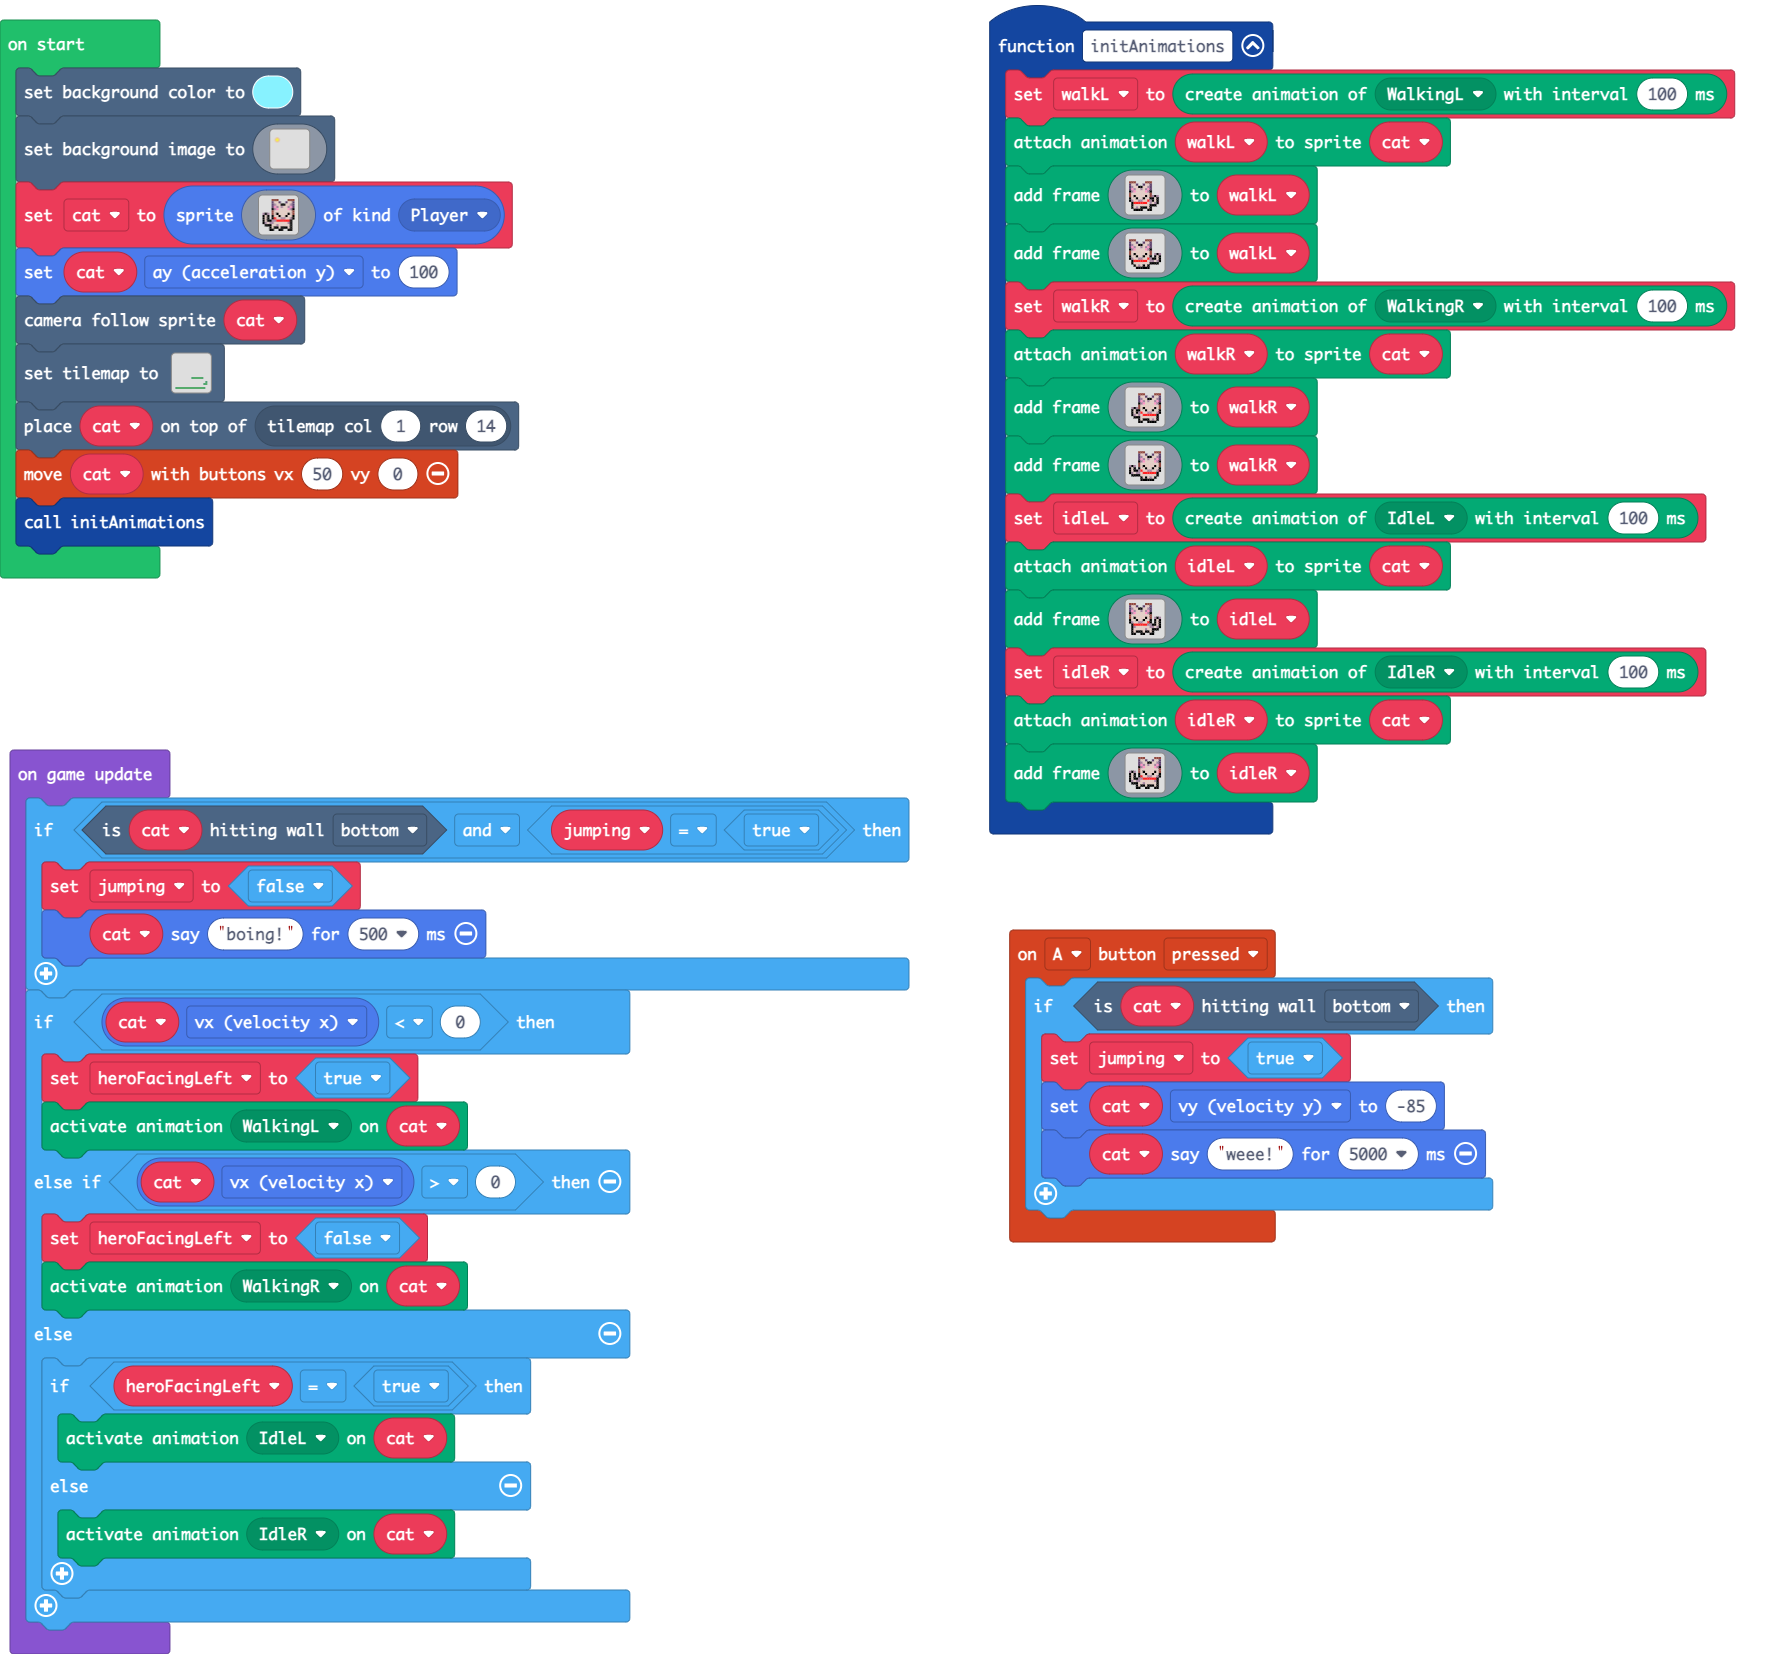
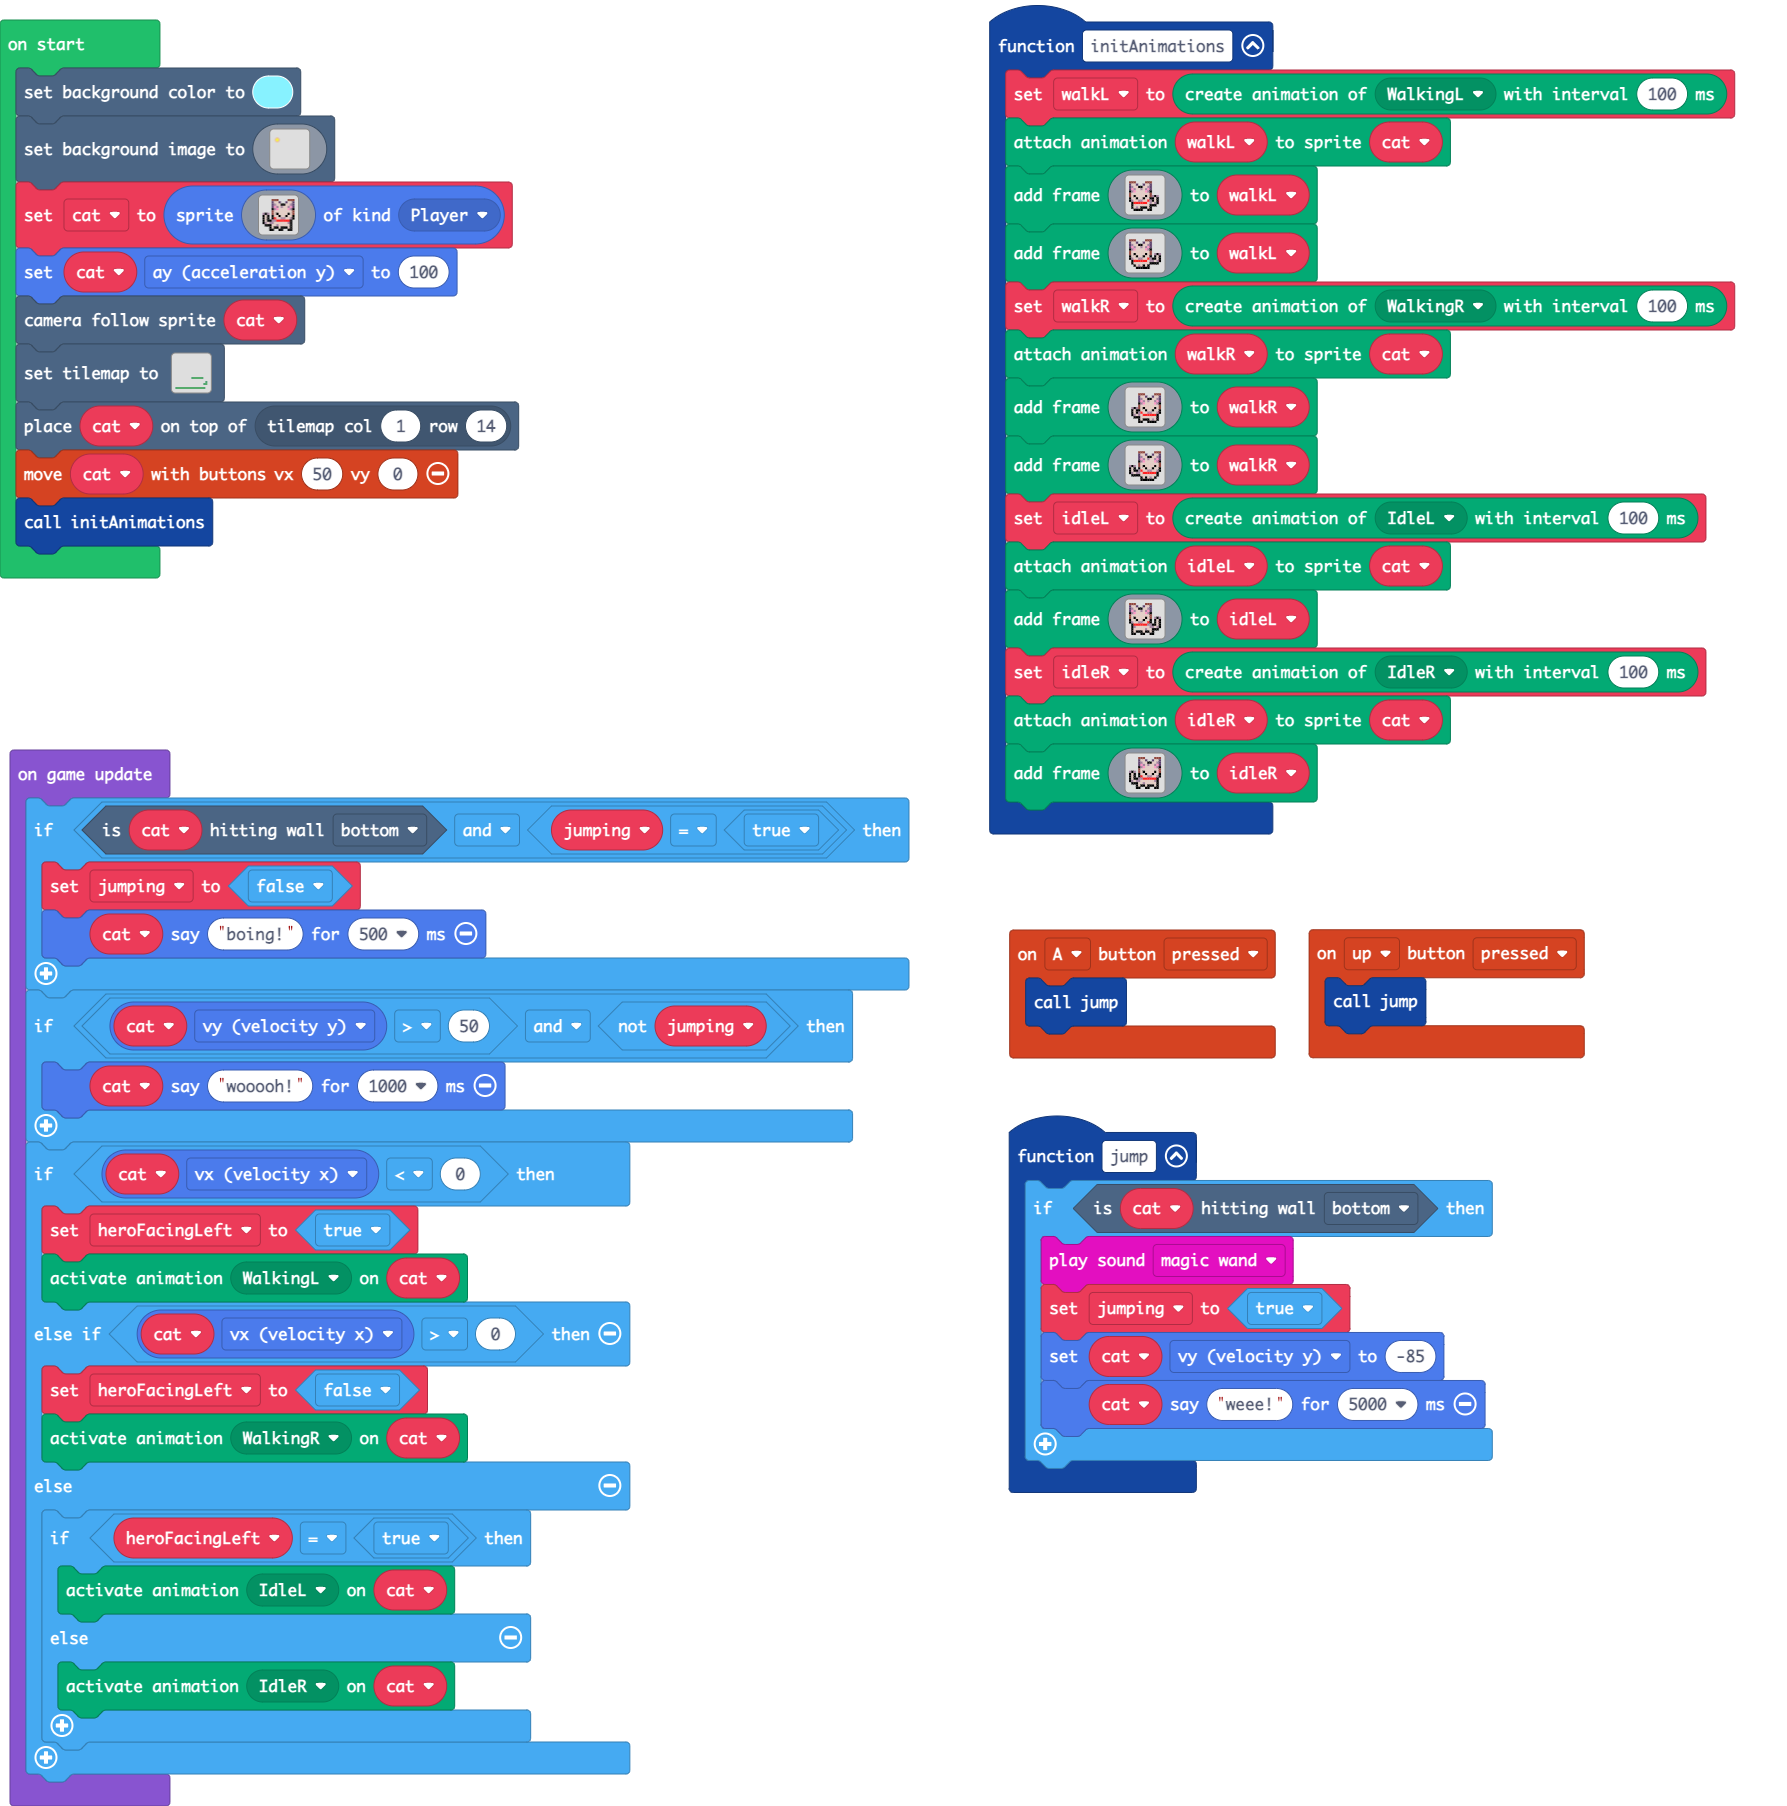
Update pxt.json, main.blocks, main.ts

diff --git a/main.ts b/main.ts
@@ -10,6 +10,9 @@ enum ActionKind {
 namespace SpriteKind {
     export const sky = SpriteKind.create()
 }
+controller.up.onEvent(ControllerButtonEvent.Pressed, function () {
+    jump()
+})
 function initAnimations () {
     walkL = animation.createAnimation(ActionKind.WalkingL, 100)
     animation.attachAnimation(cat, walkL)
@@ -117,12 +120,16 @@ function initAnimations () {
         `)
 }
 controller.A.onEvent(ControllerButtonEvent.Pressed, function () {
+    jump()
+})
+function jump () {
     if (cat.isHittingTile(CollisionDirection.Bottom)) {
+        music.magicWand.play()
         jumping = true
         cat.vy = -85
         cat.say("weee!", 5000)
     }
-})
+}
 let heroFacingLeft = false
 let jumping = false
 let idleR: animation.Animation = null
@@ -279,6 +286,9 @@ game.onUpdate(function () {
     if (cat.isHittingTile(CollisionDirection.Bottom) && jumping == true) {
         jumping = false
         cat.say("boing!", 500)
+    }
+    if (cat.vy > 50 && !(jumping)) {
+        cat.say("wooooh!", 1000)
     }
     if (cat.vx < 0) {
         heroFacingLeft = true
